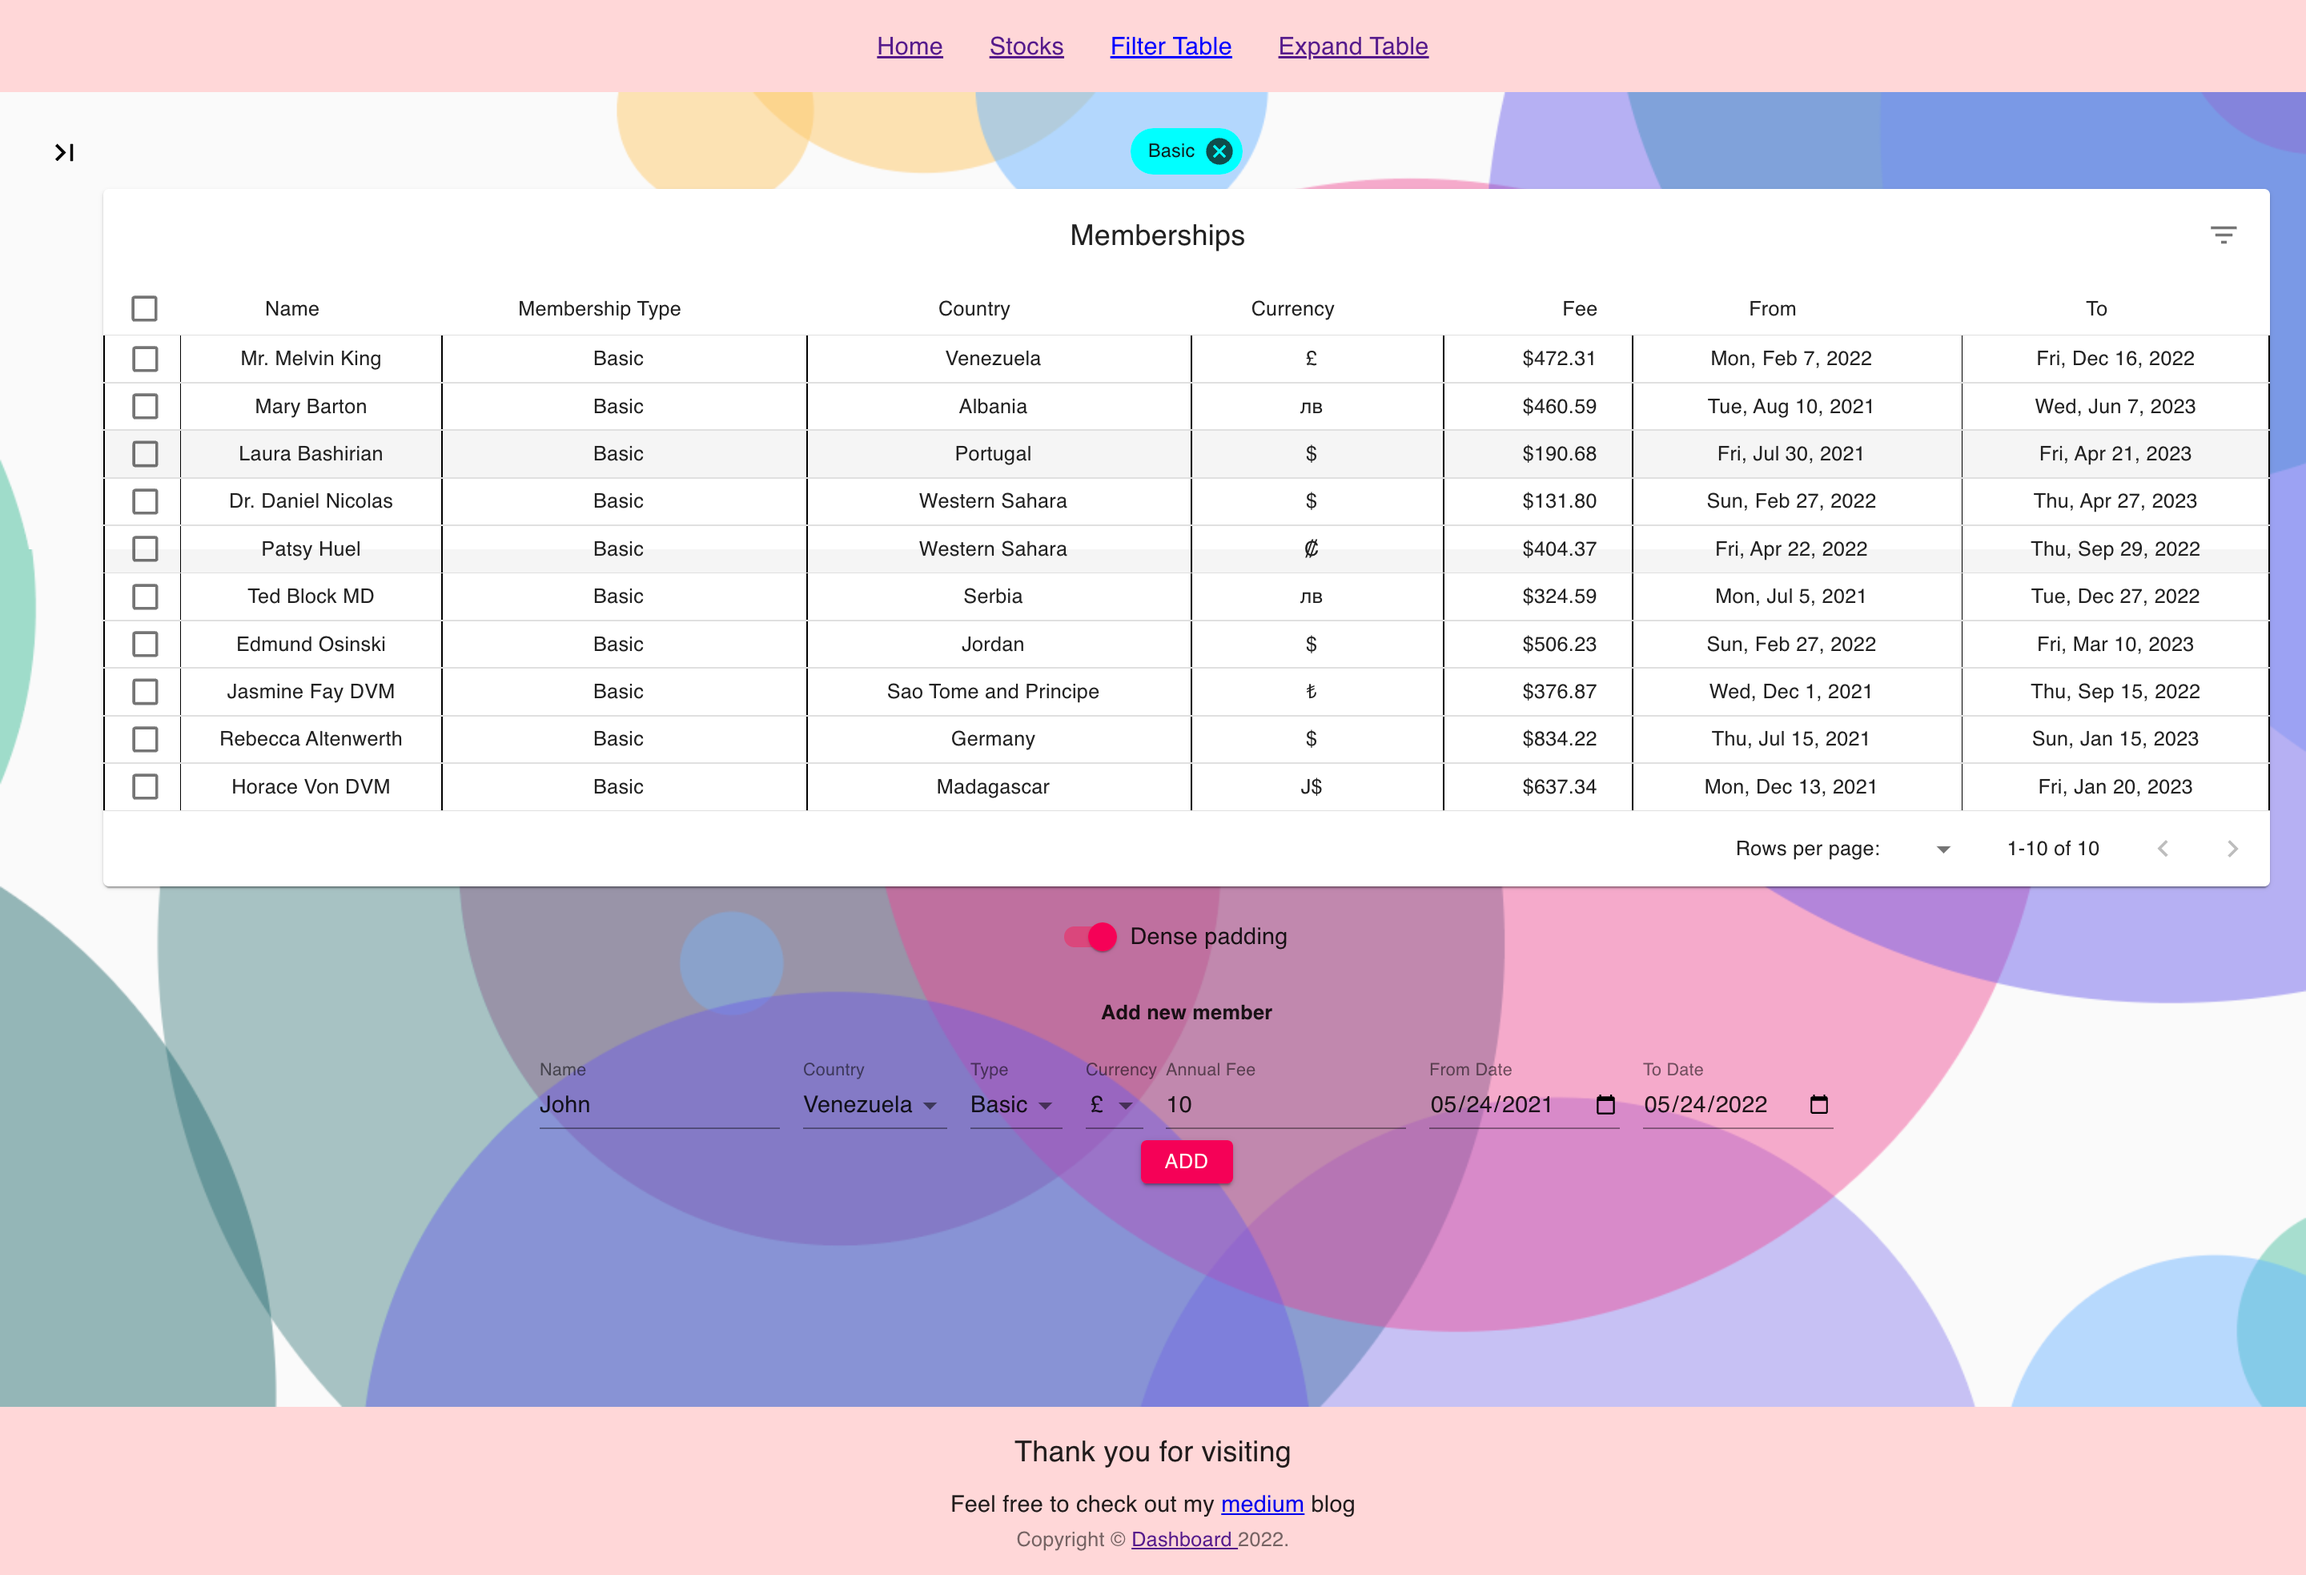
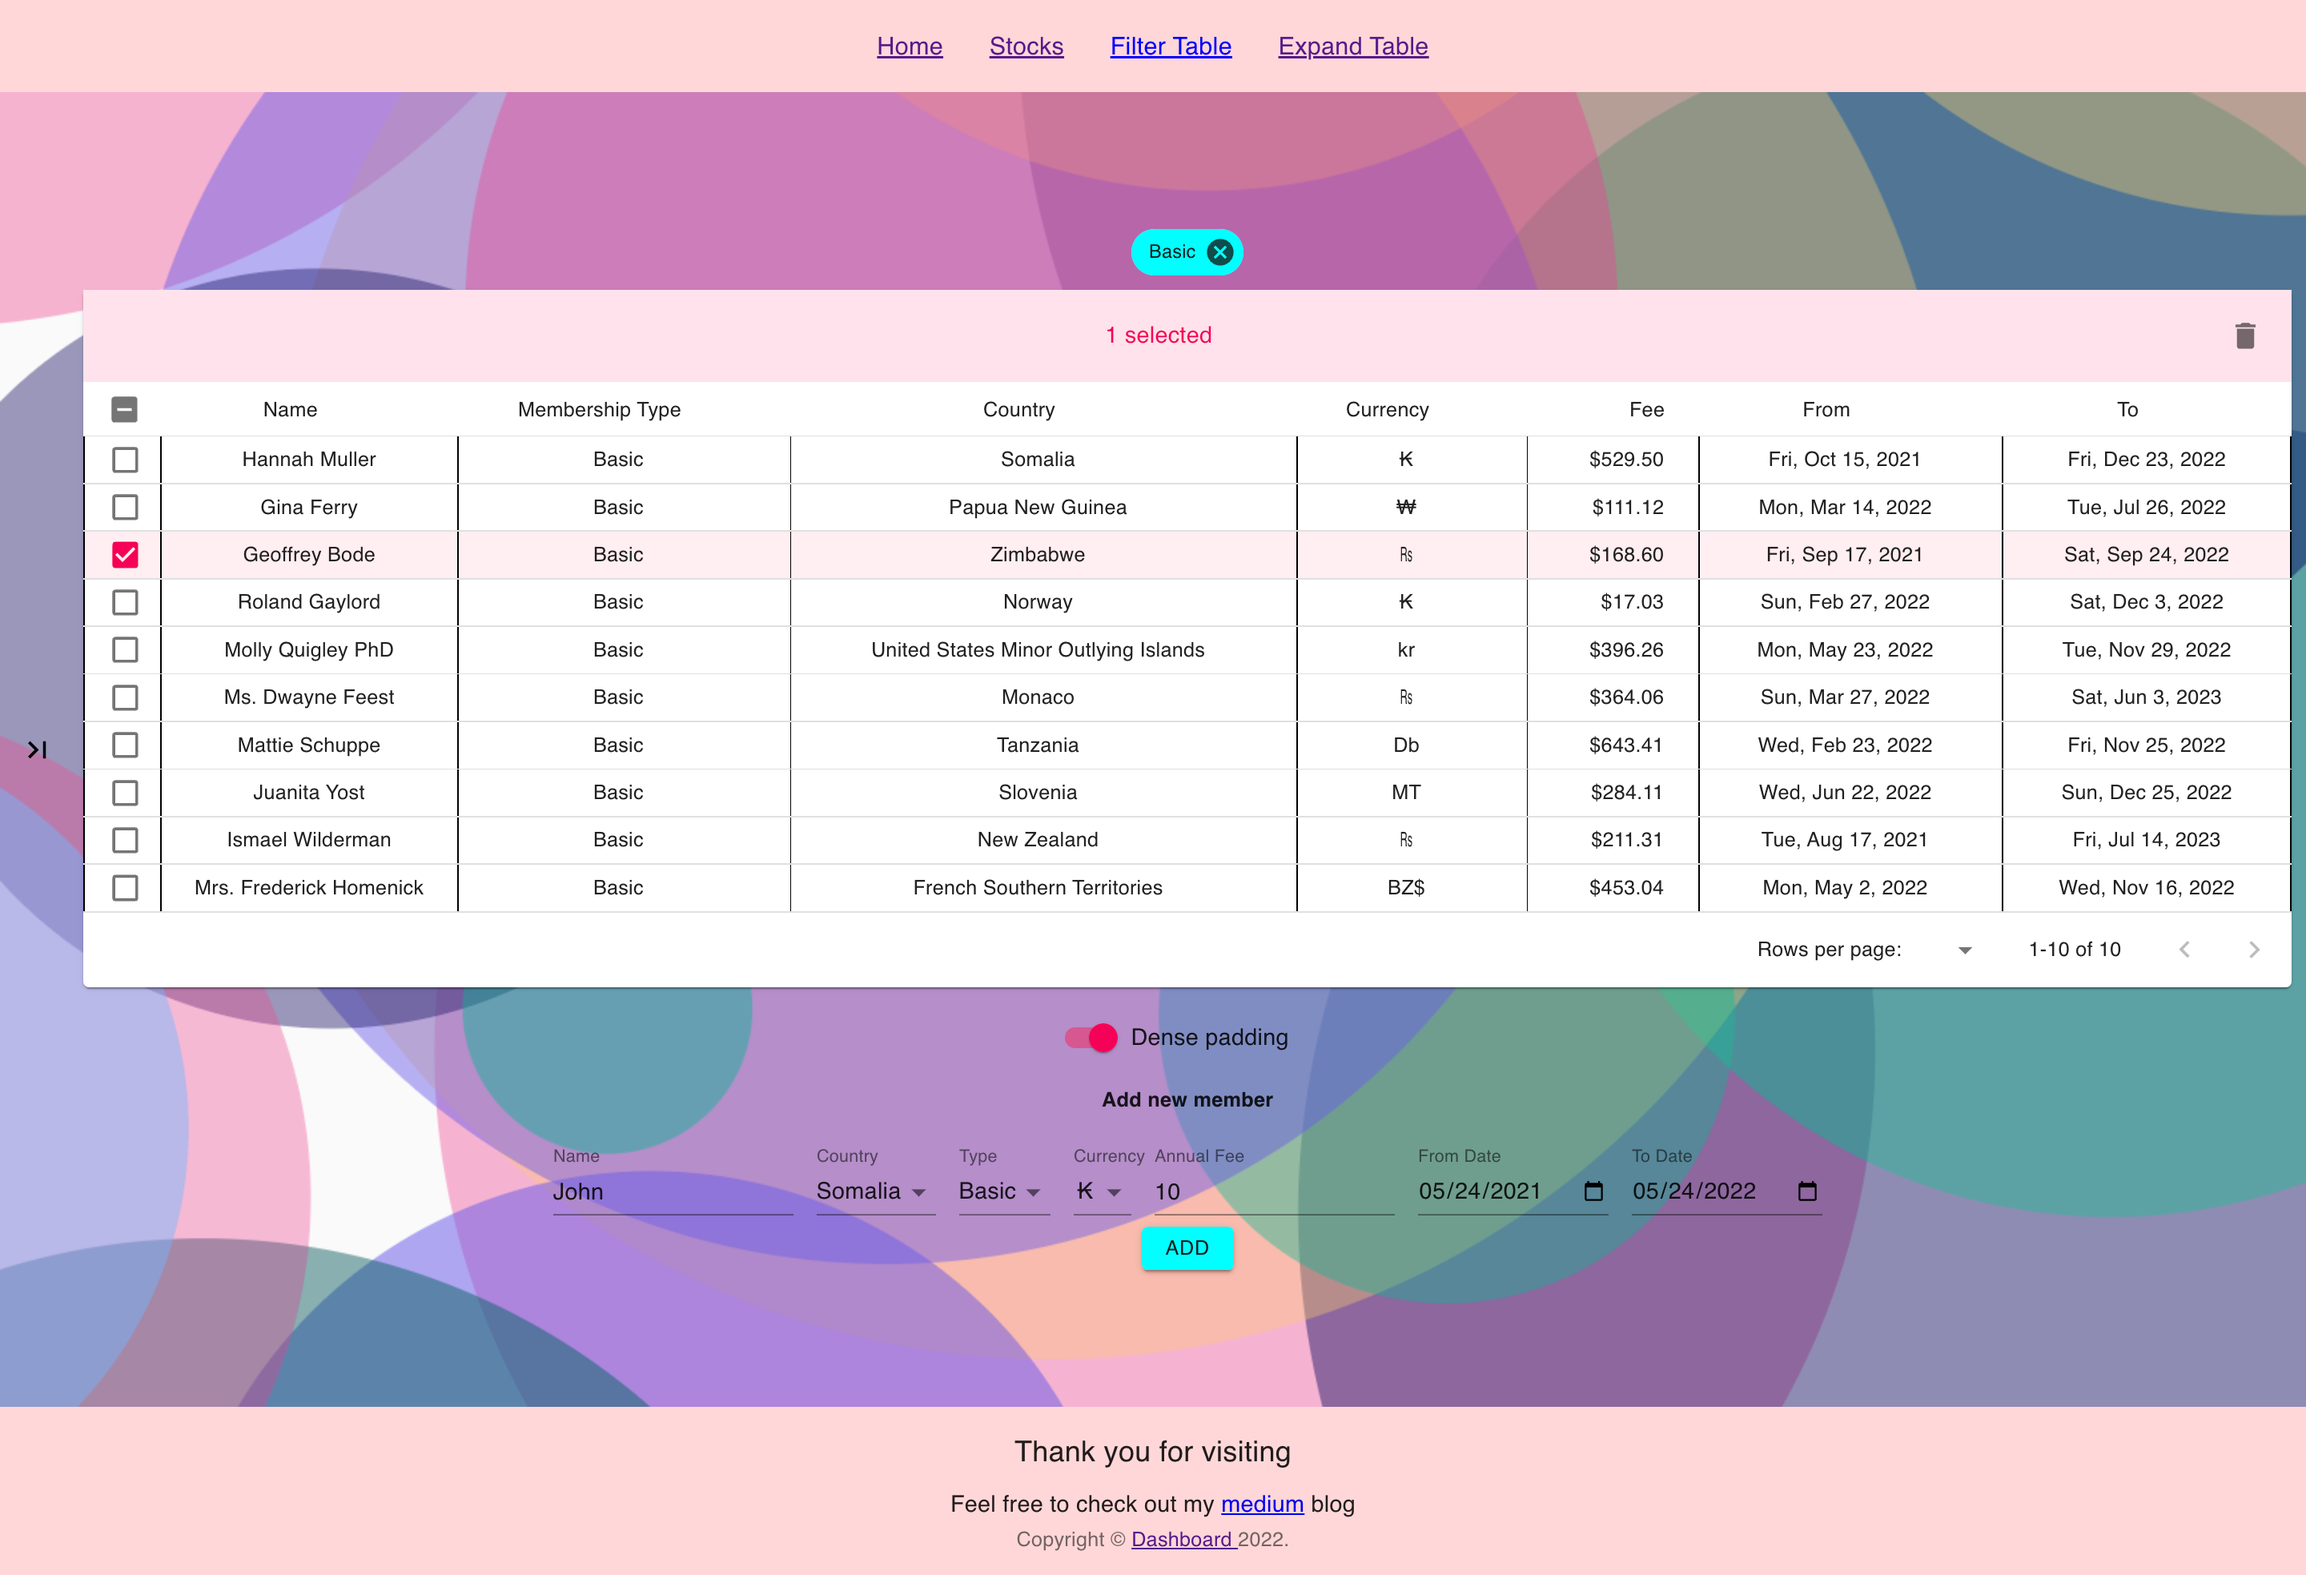
Fix membership deletion bug

diff --git a/src/Main.js b/src/Main.js
@@ -102,7 +102,7 @@ const Main = ({ classes }) => (
                 Filterable List
               </Typography>
               <Typography>
-                List page with filter and pagination capabilities
+                List page that supports filtering, pagination, modification and easy navigation.
               </Typography>
             </CardContent>
             <CardActions className={classes.cardActions}>

diff --git a/src/Components/FilterTable/Table.js b/src/Components/FilterTable/Table.js
@@ -48,7 +48,10 @@ const EnhancedTableToolbar = (props) => {
   const numSelected = selected.length
 
   const deleteMembers = () => {
-    const updated = rows.filter((row, i) => selected[i] !== row.name)
+    let updated = rows
+    selected.forEach(member => {
+      updated = updated.filter((row) => member !== row.name)
+    })
     setSelected([])
     dispatch({ type: 'update_members', data: updated })
   }
